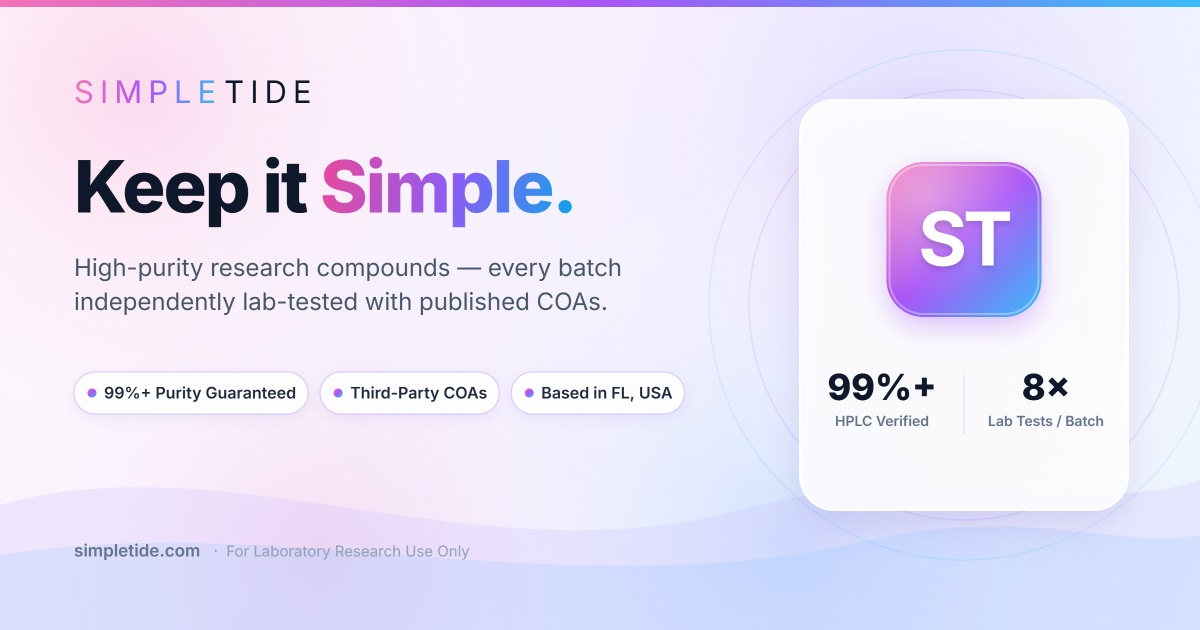
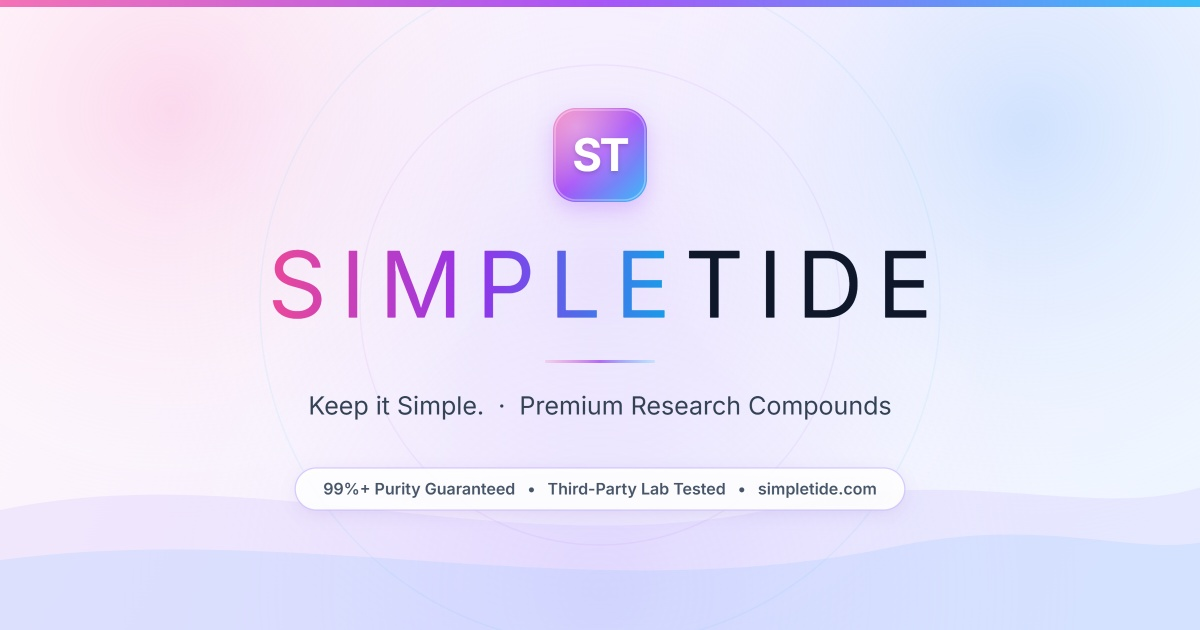
Update Simpletide OG share card to minimal centered wordmark design

diff --git a/src/lib/site-config.ts b/src/lib/site-config.ts
@@ -14,7 +14,7 @@ export const SITE_ORIGIN = (
 
 /** Default social preview (1200×630 JPEG hosted on your domain).
  *  Stays JPEG: Facebook/X/iMessage/WhatsApp link scrapers reliably render JPEG. */
-export const DEFAULT_OG_IMAGE = `${SITE_ORIGIN}/og-image.jpg`;
+export const DEFAULT_OG_IMAGE = `${SITE_ORIGIN}/og-image.jpg?v=2`;
 export const DEFAULT_OG_IMAGE_WIDTH = "1200";
 export const DEFAULT_OG_IMAGE_HEIGHT = "630";
 export const DEFAULT_OG_IMAGE_ALT = "Simpletide — High-purity lab-tested research compounds";
